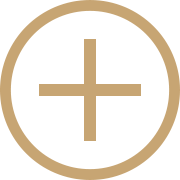
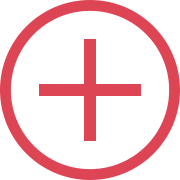
资金部分UI 修改

Changed region(s): [[0.0, 0.0, 1.0, 1.0], [0.1944, 0.1944, 0.8056, 0.8056]]

diff --git a/app/components/capital/Deposit/DepositPayBankView.js b/app/components/capital/Deposit/DepositPayBankView.js
@@ -6,7 +6,7 @@ import TXInput from "../../../tools/TXInput"
 import SegmentedControlTab from 'react-native-segmented-control-tab'
 import Tips from './DepositTipsView'
 import Picker from 'react-native-picker';
-import {specialTextColor} from "../../../utils/AllColor"
+import {textTitleColor,commonButtonBGColor,commonButtonTitleColor,textThreeHightTitleColor} from "../../../utils/AllColor"
 
 var payTypeList = [
     "网银转账", "支付宝", "财付通", "微信", "ATM自动柜员机", "ATM现金入款", "银行柜台"
@@ -23,14 +23,14 @@ export default class PayBank extends Component<Props> {
     };
 
     _onChooseBank = ()=> {
-        console.log('银行列表');
+        console.log('支付方式');
         Picker.init({
             pickerData: payTypeList,
-            pickerConfirmBtnColor:[55,55,55,1],
+            pickerConfirmBtnColor:[222,73,56,1],
             pickerCancelBtnColor:[88,88,88,1],
             pickerCancelBtnText:'',
             pickerConfirmBtnText:'确定',
-            pickerTitleText:'银行列表',
+            pickerTitleText:'支付方式',
             onPickerConfirm: data => {
                 console.log(data);
             },
@@ -45,19 +45,63 @@ export default class PayBank extends Component<Props> {
         Picker.show();
     };
 
+    //是否申请彩金
+    handleIndexChange = (applay) => {
+      this.props.onChange('handsel', applay)
+    }
+
     render () {
         return (
         <View style={{paddingTop:0}} >
             <TXInput label="付款方式" placeholder="网银转账" isUpdate={false} showDetail={true} textAlign='right' onClick={this._onChooseBank} value={this.props.params.method || ''}/>
             <View style={{height:10}}></View>
-            <TXInput label="付款人姓名" placeholder="请输入真实姓名" textAlign='right' onChange={(value) => this.props.onChange('name', value)} value={this.props.params.name || ''}/>
+            <TXInput label="真实姓名" placeholder="请输入真实姓名" textAlign='right' onChange={(value) => this.props.onChange('name', value)} value={this.props.params.name || ''}/>
+            <View style={[styles.inputViewStyle,{flexDirection:'row'}]}>
+                <Text style={{paddingTop:10,fontSize:14,color: '#514b46',height:30,width:Dimensions.get('window').width - 120}}>申请彩金</Text>
+                <View style={{paddingTop:10,flx:1,flexDirection:'row',justifyContent:'flex-end'}}>
+                    <TouchableOpacity
+                        activeOpacity={0.5}
+                        onPress={this.handleIndexChange.bind(this, 0)}>
+                        <View style={{paddingLeft:10,flexDirection:'row',alignItems:'center'
+                        }}>
+
+                        {this.props.params.handsel == 0 ? <Image source= {require('../../../static/img/recharge_icon_yes.png')}
+                                    style={{height:12,width:12}}
+                                /> : <Image source= {require('../../../static/img/recharge_icon_no.png')}
+                                    style={{height:12,width:12}}
+                        />}
+
+                        <Text style={{paddingLeft:5,color:textThreeHightTitleColor}}>是</Text>
+                        </View>
+
+                    </TouchableOpacity>
+
+                    <TouchableOpacity
+                        activeOpacity={0.5}
+                        onPress={this.handleIndexChange.bind(this, 1)}>
+                        <View style={{paddingLeft:10,flexDirection:'row',alignItems:'center'
+                        }}>
+
+                        {this.props.params.handsel == 1 ? <Image source= {require('../../../static/img/recharge_icon_yes.png')}
+                                    style={{height:12,width:12}}
+                                /> : <Image source= {require('../../../static/img/recharge_icon_no.png')}
+                                    style={{height:12,width:12}}
+                        />}
+
+                        <Text style={{paddingLeft:5,color:textThreeHightTitleColor}}>否</Text>
+                        </View>
+
+                    </TouchableOpacity>
+                </View>
+            </View>
+
             <View style={{height:10}}></View>
-            <TXInput label="￥" forbiddenDot={true} labelTextStyle={{color:specialTextColor}} keyboardType = 'numeric' placeholder="单笔限额100~2000000(元)" textAlign='right' onChange={(value) => this.props.onChange('money', value)} value={this.props.params.money || ''}/>
+            <TXInput label="￥" forbiddenDot={true} labelTextStyle={{color:textTitleColor,fontSize:20}} keyboardType = 'numeric' placeholder="单笔限额100~2000000(元)" textAlign='right' onChange={(value) => this.props.onChange('money', value)} value={this.props.params.money || ''}/>
             <View style={{paddingTop:20,alignItems: 'center',height:60}}>
                     <TouchableOpacity  onPress={() => this.props.commitRequest()}  activeOpacity={0.2} focusedOpacity={0.5}>
-                     <View style=  {{borderRadius:10,borderWidth:1,borderColor:'#CFA359',borderStyle: 'solid',justifyContent:'center',alignItems:'center',width:Dimensions.get('window').width - 100,height:40,backgroundColor:'#CFA359'}}>
+                     <View style=  {{borderRadius:10,justifyContent:'center',alignItems:'center',width:Dimensions.get('window').width - 100,height:40,backgroundColor:commonButtonBGColor}}>
 
-                        <Text style={{color:'#ffffff',fontSize:17}}>下一步</Text>
+                        <Text style={{color:commonButtonTitleColor,fontSize:17}}>下一步</Text>
                      </View>
                 </TouchableOpacity>
                 </View>
@@ -83,7 +127,15 @@ const styles = StyleSheet.create({
     fontSize:16,
     paddingTop:5,
     backgroundColor:'#efeff4',
-  }
+  },
+  inputViewStyle:{
+            paddingVertical: 10,
+            paddingHorizontal: 15,
+            borderColor: '#eae6e4',
+            marginVertical: 5,
+            borderBottomWidth: 0.5,
+            backgroundColor: '#fff'
+          }
 });
 
 

diff --git a/app/components/capital/BankCard/NewBankCardScreen.js b/app/components/capital/BankCard/NewBankCardScreen.js
@@ -9,6 +9,8 @@ import httpBaseManager from '../../../http/httpBaseManager'
 import { NavigationActions } from 'react-navigation';
 import {TXAlert} from "../../../tools/TXAlert"
 import TXToastManager from "../../../tools/TXToastManager"
+import {backgroundViewColor,commonButtonBGColor,commonButtonTitleColor,tipsSpecialTextColor,ThemeEditTextTextColor} from "../../../utils/AllColor"
+
 
 let data = ['中国农业银行','中国银行','交通银行','中国建设银行','中国工商银行','中国邮政储蓄银行','招商银行','浦发银行','中国光大银行','中信银行','平安银行','中国民生银行','华夏银行','广发银行','北京银行','上海银行','兴业银行','其他银行'];
 
@@ -135,30 +137,23 @@ export default class NewBankCardScreen extends Component<Props> {
     };
 
     render() {
-        let bgColor;
-        if (this.state.cardType === '请选择银行种类') {
-            bgColor = '#CFA359';
-        }else {
-            bgColor = '#514b46';
-        }
         return (
             <View style={{height:Dimensions.get('window').height,alignItems: 'center',backgroundColor:'#efeff4'}}>
-                <View style={{paddingTop:10,height:40,width:Dimensions.get('window').width}}>
-                    <Text style={{paddingLeft:10}}>为了您账户安全,真实姓名需要和绑定银行卡姓名一致</Text>
-                </View>
-                <TXInput label="真实姓名" placeholder="请输入持卡人姓名" textAlign='right' onChange={(value) => this._onChange('name', value)} value={this.state.name || ''}/>
+                
+                <TXInput label="银行" detailTextColor={ThemeEditTextTextColor} isUpdate={false} showDetail={true} textAlign='right' onClick={this._onChooseBank} value={this.state.cardType || ''}/>
                 <TXInput label="银行卡号" placeholder="请输入银行卡号" textAlign='right' onChange={(value) => this._onChange('cardNum', value)} value={this.state.cardNum || ''}/>
-                <TXInput label="银行种类" detailTextColor={bgColor} isUpdate={false} showDetail={true} textAlign='right' onClick={this._onChooseBank} value={this.state.cardType || ''}/>
-                <TXInput label="开户行地址" placeholder="请输入开户行地址" textAlign='right' onChange={(value) => this._onChange('address', value)} value={this.state.address || ''}/>
+                <TXInput label="真实姓名" placeholder="请输入持卡人姓名" textAlign='right' onChange={(value) => this._onChange('name', value)} value={this.state.name || ''}/>
+                <TXInput label="开户行" placeholder="请输入开户行名称" textAlign='right' onChange={(value) => this._onChange('address', value)} value={this.state.address || ''}/>
                 <TXInput label="资金密码" secureTextEntry={true} placeholder="4位资金密码" textAlign='right' maxLength={4} onChange={(value) => this._onChange('password', value)} value={this.state.password || ''}/>
-                <View style={{paddingTop:20,height:50,width:Dimensions.get('window').width}}>
-                    <Text style={{paddingLeft:15,fontSize:10}}>请绑定持卡本人的银行卡并确认卡号，避免后期提款无法到账</Text>
+                
+                <View style={{paddingTop:10,height:60,width:Dimensions.get('window').width}}>
+                    <Text style={{paddingLeft:10,fontSize:12,color:tipsSpecialTextColor}}>为了您账户安全,真实姓名需要和绑定银行卡姓名一致，请绑定持卡本人的银行卡并确认卡号，避免后期提款无法到账。</Text>
                 </View>
                 <View style={{alignItems: 'center'}}>
                     <TouchableOpacity  onPress={() => this._onBindCard()}  activeOpacity={0.2} focusedOpacity={0.5}>
-                     <View style=  {{borderRadius:10,borderWidth:1,borderColor:'#CFA359',borderStyle: 'solid',justifyContent:'center',alignItems:'center',width:Dimensions.get('window').width - 100,height:40,backgroundColor:'#CFA359'}}>
+                     <View style=  {{borderRadius:10,justifyContent:'center',alignItems:'center',width:Dimensions.get('window').width - 100,height:40,backgroundColor:commonButtonBGColor}}>
 
-                        <Text style={{color:'#ffffff',fontSize:17}}>立即绑定</Text>
+                        <Text style={{color:commonButtonTitleColor,fontSize:17}}>立即绑定</Text>
                      </View>
                 </TouchableOpacity>
                 </View>

diff --git a/app/components/capital/Deposit/DepositManagerScreen.js b/app/components/capital/Deposit/DepositManagerScreen.js
@@ -16,7 +16,7 @@ import {TXAlert} from "../../../tools/TXAlert"
 import { NavigationActions } from 'react-navigation';
 import TXToastManager from "../../../tools/TXToastManager"
 import Picker from 'react-native-picker';
-import {backgroundViewColor} from "../../../utils/AllColor"
+import {backgroundViewColor,ThemeEditTextTextColor} from "../../../utils/AllColor"
 
 var payTypeList = [
     "网银转账", "支付宝", "财付通", "微信", "ATM自动柜员机", "ATM现金入款", "银行柜台"
@@ -32,6 +32,7 @@ export default class DepositManagerScreen extends Component<Props> {
           headerBackTitle:null,
           headerTitleStyle:{flex:1, textAlign: 'center'},//解决android 标题不居中问题
           headerLeft: (
+
             <TouchableOpacity onPress={() => {
                     Picker.hide()
                     if (params.hasOwnProperty('isNotFromHome')) {
@@ -52,19 +53,45 @@ export default class DepositManagerScreen extends Component<Props> {
                 </TouchableOpacity>
           ),
           headerRight: (
-            <TouchableOpacity onPress={() => {
+            <View style={{width:60,flexDirection:'row',alignItems:'center'}}>
+                <TouchableOpacity onPress={() => {
                     Picker.hide()
                     navigation.navigate('FundRecord')
                 }}>
-                    <Text style={{paddingRight:10,fontSize:17,color:'#CFA359'}}>存款记录</Text>
+                    <View style={{alignItems:'center'}}>
+                        <Image source={require('../../../static/img/nav_icon_jilu_nor.png')}
+                           style={{
+                               width: 20,
+                               height: 20,
+                           }}/>
+                        <Text style={{fontSize:10,color:ThemeEditTextTextColor}}>记录</Text>
+                    </View>
+                    
                 </TouchableOpacity>
+                <View style={{width:5}}></View>
+                <TouchableOpacity onPress={() => {
+                    Picker.hide()
+                    navigation.navigate('优惠')
+                }}>
+                    <View style={{alignItems:'center'}}>
+                        <Image source={require('../../../static/img/nav_icon_kefu_nor.png')}
+                           style={{
+                               width: 20,
+                               height: 20,
+                           }}/>
+                        <Text style={{fontSize:10,color:ThemeEditTextTextColor}}>客服</Text>
+                    </View>
+                    
+                </TouchableOpacity>
+            </View>
+            
           ),
         };
       };
 
     constructor(props){
         super(props);
-        this.state = {isLoading: true,isRefreshing:false,selectedIndex:0,scanSelectedIndex:0,payTypeSelectedIndex:0,orderNum:'',payType:'bank',data:[],method:payTypeList[0],money:'',name:''};
+        this.state = {isLoading: true,isRefreshing:false,selectedIndex:0,scanSelectedIndex:0,payTypeSelectedIndex:0,orderNum:'',payType:'bank',data:[],method:payTypeList[0],money:'',name:'',handsel:0};
     }
 
     componentWillMount () {
@@ -296,7 +323,7 @@ export default class DepositManagerScreen extends Component<Props> {
                 name : this.state.name,
                 amount : this.state.money,
                 type : String(typeIndex + 1),
-                handsel : '0'
+                handsel : String(this.state.handsel)
             };
 
             http.post('deposit/outlineBankPay', prams, true).then(res => {
@@ -352,7 +379,6 @@ export default class DepositManagerScreen extends Component<Props> {
             this.setState({'payType':payMethod,method:payTypeList[0]});
         }else {
             this.setState({'payType':payMethod,method:payName});
-
         }
 
     }

diff --git a/app/components/capital/BankCard/SettingCapitalPwdScreen.js b/app/components/capital/BankCard/SettingCapitalPwdScreen.js
@@ -7,6 +7,8 @@ import {mergeStoreData} from "../../../http/AsyncStorage";
 import { NavigationActions } from 'react-navigation';
 import {TXAlert} from "../../../tools/TXAlert"
 import TXToastManager from "../../../tools/TXToastManager"
+import {backgroundViewColor,textThreeHightTitleColor,tipsSpecialTextColor,
+    commonButtonBGColor,commonButtonTitleColor} from "../../../utils/AllColor"
 
 export default class SettingCapitalPwdScreen extends Component<Props> {
 
@@ -83,22 +85,21 @@ export default class SettingCapitalPwdScreen extends Component<Props> {
 
     render() {
         return (
-            <View style={{height:Dimensions.get('window').height,alignItems: 'center',backgroundColor:'#efeff4'}}>
-                <View style={{paddingTop:10,height:20,width:Dimensions.get('window').width}}>
+            <View style={{height:Dimensions.get('window').height,alignItems: 'center',backgroundColor:backgroundViewColor}}>
+                <View style={{paddingTop:10,height:2,width:Dimensions.get('window').width}}>
 
                 </View>
                 <TXInput label="新密码" forbiddenDot={true} keyboardType = 'numeric'  secureTextEntry={true} maxLength={4} placeholder="密码必须为4位数字的组合" textAlign='right' onChange={(value) => this._onChange('password', value)} value={this.state.password || ''}/>
-                <TXInput label="确认密码" forbiddenDot={true} keyboardType = 'numeric'  secureTextEntry={true} maxLength={4} placeholder="请再次填写新密码" textAlign='right' onChange={(value) => this._onChange('rePassword', value)} value={this.state.rePassword || ''}/>
-                <View style={{paddingTop:15,flexDirection: 'row',alignItems: 'center',justifyContent:'center',height:50,width:Dimensions.get('window').width}}>
-                    <Text style={{fontSize:10}}>提款密码必须为</Text>
-                    <Text style={{fontSize:10,color:'#CFA359'}}>4位数字</Text>
-                    <Text style={{fontSize:10}}>且符合0~9字元</Text>
+                <TXInput label="确认新密码" forbiddenDot={true} keyboardType = 'numeric'  secureTextEntry={true} maxLength={4} placeholder="请再次填写新密码" textAlign='right' onChange={(value) => this._onChange('rePassword', value)} value={this.state.rePassword || ''}/>
+                <View style={{paddingLeft:14,paddingTop:15,flexDirection: 'row',alignItems: 'center',justifyContent:'flex-start',height:30,width:Dimensions.get('window').width}}>
+                    <Text style={{fontSize:10,color:textThreeHightTitleColor}}>注:提款密码限制为</Text>
+                    <Text style={{fontSize:10,color:tipsSpecialTextColor}}>4位数字</Text>
                 </View>
                 <View style={{paddingTop:20,alignItems: 'center'}}>
                     <TouchableOpacity  onPress={() => this._onSettingPWD()}  activeOpacity={0.2} focusedOpacity={0.5}>
-                     <View style=  {{borderRadius:10,borderWidth:1,borderColor:'#CFA359',borderStyle: 'solid',justifyContent:'center',alignItems:'center',width:Dimensions.get('window').width - 100,height:40,backgroundColor:'#CFA359'}}>
+                     <View style=  {{borderRadius:10,borderWidth:1,borderColor:commonButtonBGColor,borderStyle: 'solid',justifyContent:'center',alignItems:'center',width:Dimensions.get('window').width - 100,height:40,backgroundColor:commonButtonBGColor}}>
 
-                        <Text style={{color:'#ffffff',fontSize:17}}>立即设置</Text>
+                        <Text style={{color:commonButtonTitleColor,fontSize:17}}>设置</Text>
                      </View>
                 </TouchableOpacity>
                 </View>

diff --git a/app/components/capital/Deposit/DepositTipsView.js b/app/components/capital/Deposit/DepositTipsView.js
@@ -2,7 +2,7 @@ import React, {Component} from 'react';
 import {Platform,TouchableOpacity, StyleSheet, Text, View, Button, Alert, Image,StatusBar} from 'react-native';
 import Dimensions from 'Dimensions'
 import TXToastManager from "../../../tools/TXToastManager"
-import {backgroundViewColor} from "../../../utils/AllColor"
+import {backgroundViewColor,tipsSpecialTextColor,textThreeHightTitleColor} from "../../../utils/AllColor"
 
 //温馨提示
 export default class Tips extends Component<Props> {
@@ -13,13 +13,18 @@ export default class Tips extends Component<Props> {
     render () {
         return (
             <View style={{paddingTop:20,paddingLeft:10,flexDirection: 'column',justifyContent:'center',width:Dimensions.get('window').width}}>
-                    <Text style={{fontSize:12,color:'#D62F27',height:18}}>温馨提示</Text>
-                    <Text style={{fontSize:10,color:'#8B8B8B',height:15}}>为确保您的款项及时到账，请您留意以下内容</Text>
-                    <Text style={{fontSize:10,color:'#8B8B8B',height:15}}>1.在输入您的存款金额时确保您提交的金额在限额范围之内</Text>
+                    
+                    <Text style={{fontSize:10,color:textThreeHightTitleColor,height:15}}>为确保您的款项及时到账，请您留意以下：</Text>
+                    <View style={{flexDirection: 'row',height:15,width:Dimensions.get('window').width}}>
+                        <Text style={{fontSize:10,color:textThreeHightTitleColor,height:15}}>1，若您支付遇到困难，可</Text>
+                        <Text style={{fontSize:10,color:tipsSpecialTextColor,height:15}} onPress={this.props.onShowCustomer}>“点此” </Text>
+                        <Text style={{fontSize:10,color:textThreeHightTitleColor,height:15}}>查看存款帮助</Text>
+                    </View>
+                    <Text style={{fontSize:10,color:textThreeHightTitleColor,height:15}}>2，若您支付过充值遇到问题未完成支付，请重新下单；</Text>
                     <View style={{flexDirection: 'row',height:50,width:Dimensions.get('window').width}}>
-                        <Text style={{fontSize:10,color:'#8B8B8B',height:15}}>2.支付遇到困难，点击</Text>
-                        <Text style={{fontSize:10,color:'red',height:15}} onPress={this.props.onShowCustomer}>“联系客服” </Text>
-                        <Text style={{fontSize:10,color:'#8B8B8B',height:15}}>人员获得帮助</Text>
+                        <Text style={{fontSize:10,color:textThreeHightTitleColor,height:15}}>3，扔有问题无法解决？请联系</Text>
+                        <Text style={{fontSize:10,color:tipsSpecialTextColor,height:15}} onPress={this.props.onShowCustomer}>“在线客服” </Text>
+                        <Text style={{fontSize:10,color:textThreeHightTitleColor,height:15}}>获得帮助</Text>
                     </View>
                     <View style={{height:20,backgroundColor:backgroundViewColor}}></View>
                 </View>

diff --git a/app/components/capital/Deposit/DepositNonePayListView.js b/app/components/capital/Deposit/DepositNonePayListView.js
@@ -2,19 +2,24 @@ import React, {Component} from 'react';
 import {Platform,TouchableOpacity, StyleSheet, Text, View, Button, Alert, Image,StatusBar} from 'react-native';
 import Dimensions from 'Dimensions'
 import TXToastManager from "../../../tools/TXToastManager"
+import {textThreeHightTitleColor,backgroundViewColor,tipsSpecialTextColor} from "../../../utils/AllColor"
 
 //没有支付列表显示说明
 export default class NonePayList extends Component<Props> {
 
     render () {
         return (
-            <View style={{backgroundColor:'#FFFFFF',alignItems:'center',justifyContent:'center',height:100,flex:1,flexDirection: 'row',width:Dimensions.get('window').width}}>
-                <Image source={require('../../../static/img/icon_tanhao.png')} style={{width:13,height:13}} />
-                <Text style={{fontSize:13,color:'#8B8B8B',height:15}}>没有可用支付商列表!</Text>
-                <View style={{width:10}}></View>
-                <Image source={require('../../../static/img/icon_kefu_xiao.png')} style={{width:13,height:13}} />
-                <Text style={{fontSize:13,color:'red',height:15}} onPress={this.props.onShowCustomer}>“在线客服” </Text>
-
+            <View style={{flexDirection:'column',backgroundColor:backgroundViewColor,alignItems:'center',justifyContent:'center',flex:1,width:Dimensions.get('window').width}}>
+                <Image source={require('../../../static/img/pic_nodate.png')}
+                           style={{
+                               width: 244,
+                               height: 240,
+                           }}/>
+                <View style={{backgroundColor:backgroundViewColor,alignItems:'center',justifyContent:'center',height:50,flex:1,flexDirection: 'row',width:Dimensions.get('window').width}}>
+                  <Text style={{fontSize:13,color:textThreeHightTitleColor,height:15}}>无可用的充值渠道，请联系</Text>
+                  <View style={{width:10}}></View>
+                  <Text style={{fontSize:13,color:tipsSpecialTextColor,height:15}} onPress={this.props.onShowCustomer}>“在线客服” </Text>
+                </View>
             </View>
         );
     }

diff --git a/app/components/capital/BankCard/AddBankScreen.js b/app/components/capital/BankCard/AddBankScreen.js
@@ -3,6 +3,8 @@ import {Platform,TouchableOpacity, StyleSheet, Text, View, Button, Alert, Image,
 import Dimensions from 'Dimensions'
 import {NativeModules} from 'react-native';
 import { NavigationActions,StackActions } from 'react-navigation';
+import {backgroundViewColor,commonButtonBGColor,commonButtonTitleColor} from "../../../utils/AllColor"
+
 
 export default class AddBankCardScreen extends Component<Props> {
     static navigationOptions = {
@@ -40,7 +42,7 @@ export default class AddBankCardScreen extends Component<Props> {
         return (
             <View style={{paddingTop:50,alignItems: 'center', justifyContent: 'center' }}>
                 <TouchableOpacity  onPress={this._onAddNewBankCard}  activeOpacity={0.2} focusedOpacity={0.5}>
-                     <View style=  {{borderRadius:10,borderWidth:1,borderColor:'#CFA359',borderStyle: 'solid',justifyContent:'center',alignItems:'center',width:Dimensions.get('window').width - 20,height:180,backgroundColor:'#ffffff'}}>
+                     <View style=  {{borderRadius:10,borderWidth:1,borderColor:commonButtonBGColor,borderStyle: 'solid',justifyContent:'center',alignItems:'center',width:Dimensions.get('window').width - 20,height:180,backgroundColor:backgroundViewColor}}>
                         <Image
                             source={require('../../../static/img/icon_mBank.png')}
                             style={{
@@ -48,7 +50,7 @@ export default class AddBankCardScreen extends Component<Props> {
                                            height: 60,
                                        }}
                         />
-                        <Text style={{color:'#CFA359',paddingTop:10}}>点击此处新增银行卡</Text>
+                        <Text style={{color:commonButtonBGColor,paddingTop:10}}>点击此处新增银行卡</Text>
                      </View>
                 </TouchableOpacity>
             </View>

diff --git a/app/tools/TXInput.js b/app/tools/TXInput.js
@@ -99,7 +99,7 @@ class TXInput extends Component {
             onChangeText={this._onChangeText}
             onBlur={this._onBlur}
             onFocus={this._onFocus}
-            style={[{paddingTop: 0,paddingBottom: 0, textAlign:this.state.textAlign, flex: 1, fontSize: 14, color: '#332f2b' }, textInputStyle]}
+            style={[{paddingTop: 0,paddingBottom: 0, textAlign:this.state.textAlign, flex: 1, fontSize: 14, color: '#333333' }, textInputStyle]}
             placeholderTextColor={placeholderTextColor}
             value={String(this.state.value)}
             autoCorrect={false}

diff --git a/app/utils/AllColor.js b/app/utils/AllColor.js
@@ -20,6 +20,8 @@ export const commonButton2BGColor = '#EFEFF4' // 特殊选择button 背景
 
 export const commonButtonTitleColor = '#FFFFFF' //button 通用文字颜色
 
+export const tipsSpecialTextColor = '#DE4A38'
+
 export const textTitleColor = "#333333" //一级文字
 export const textHightTitleColor = "#111111" //最重要文字
 export const textThreeHightTitleColor = "#999999" //次要文字
